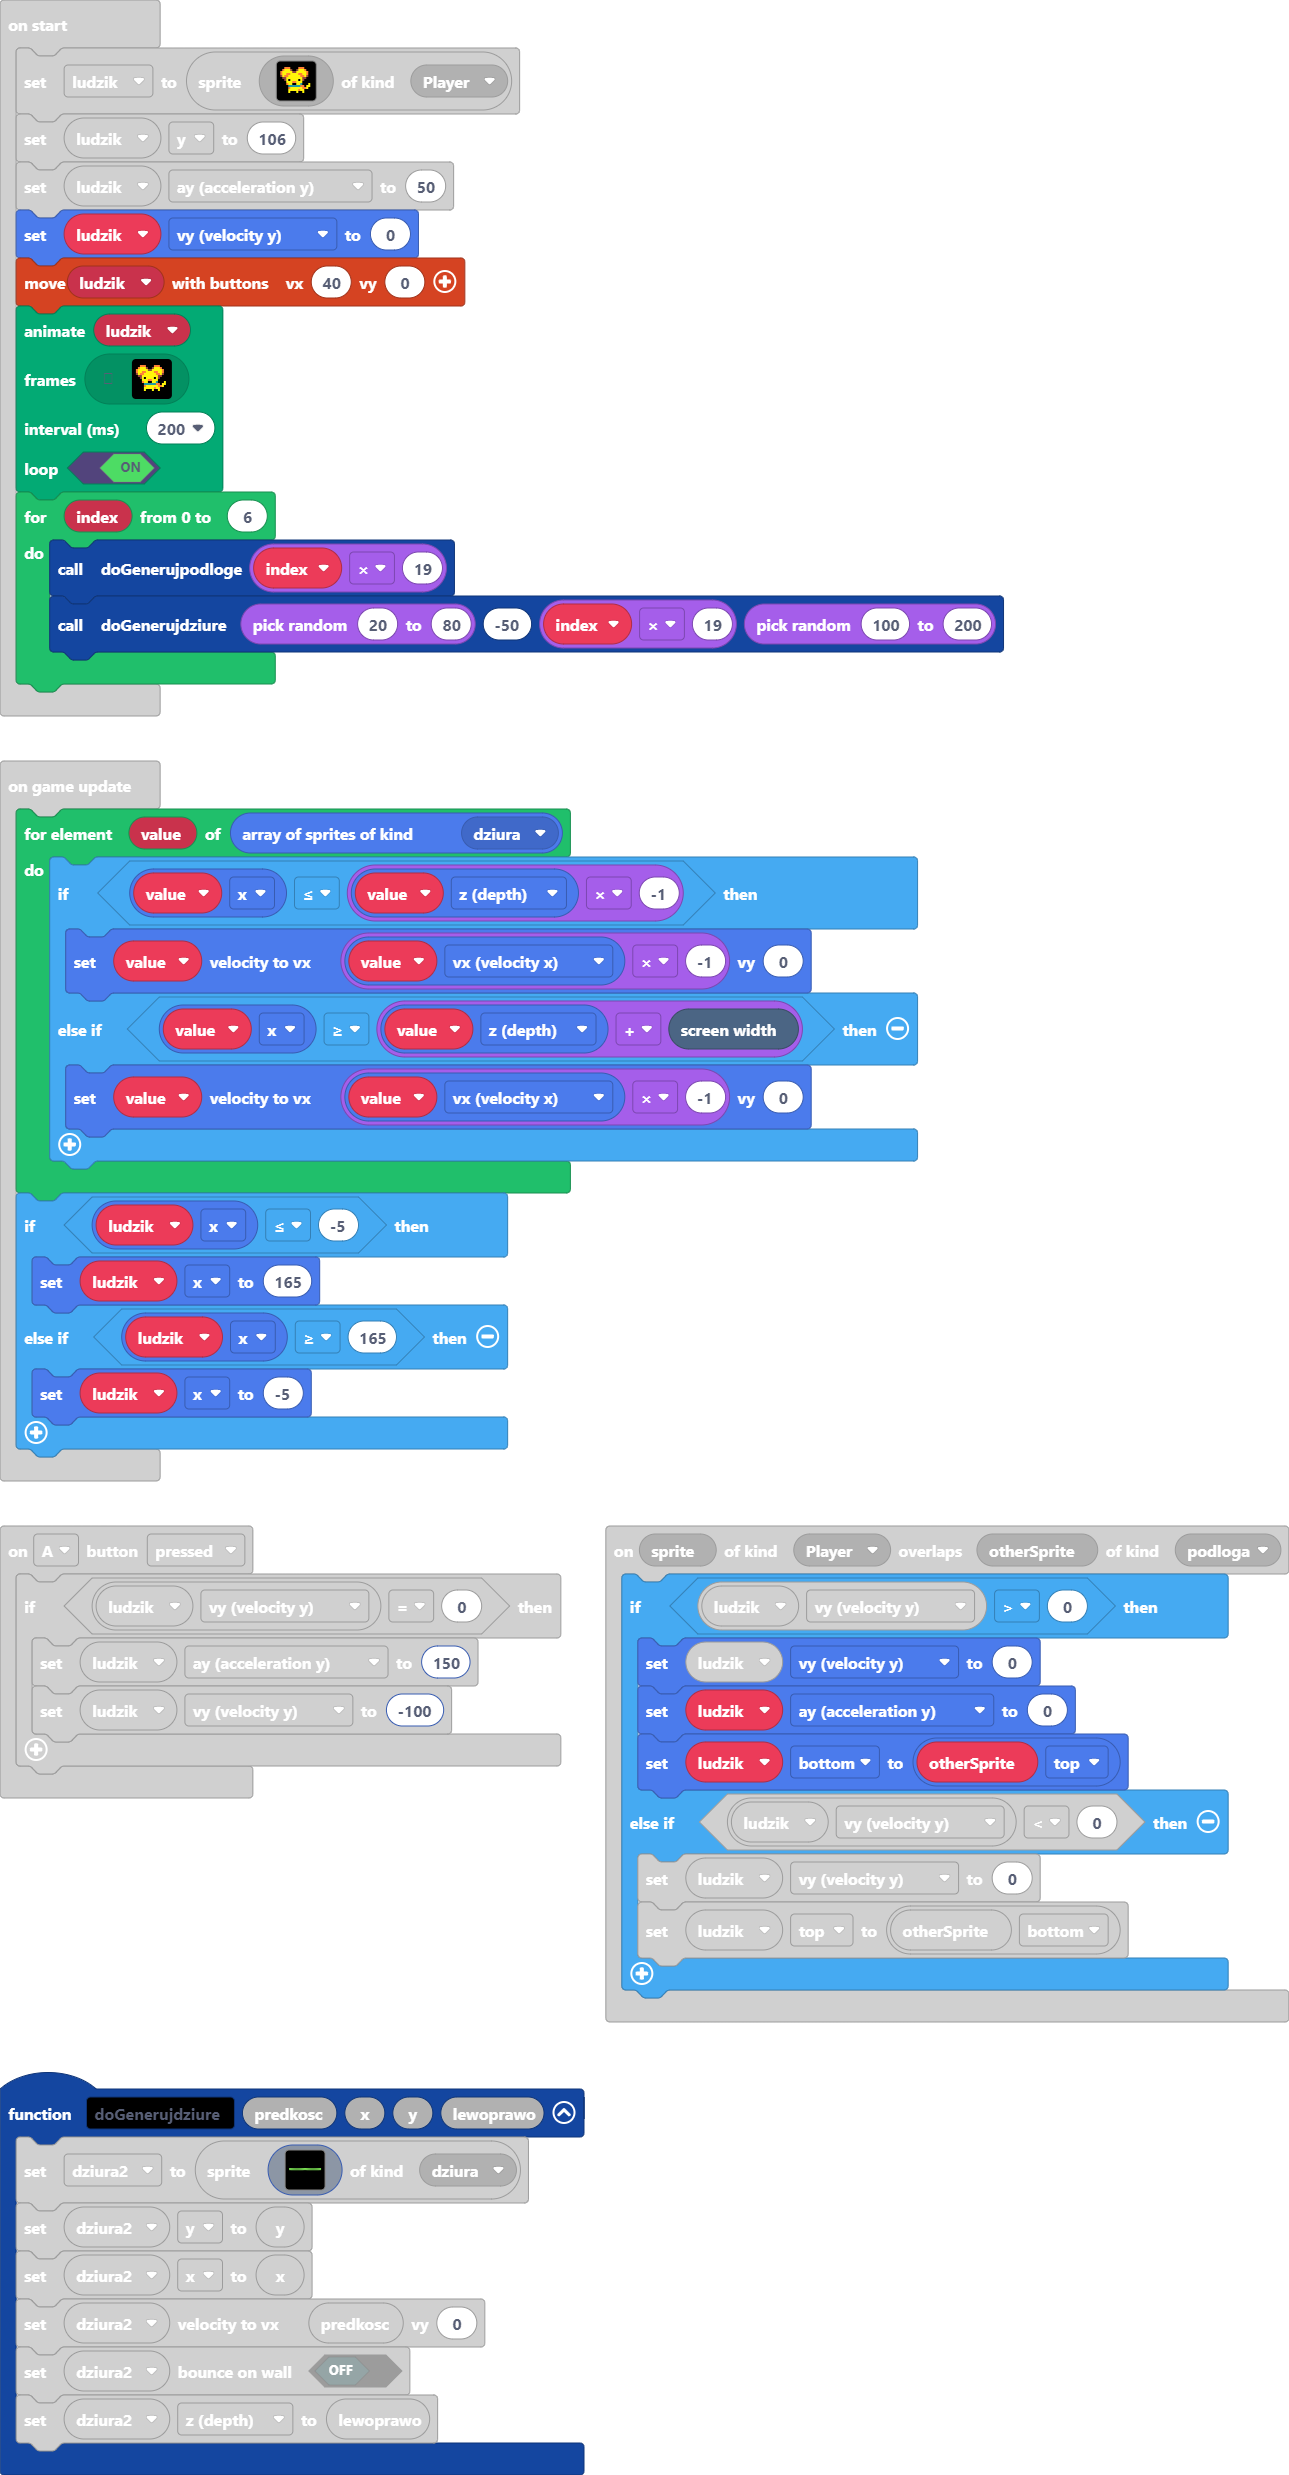
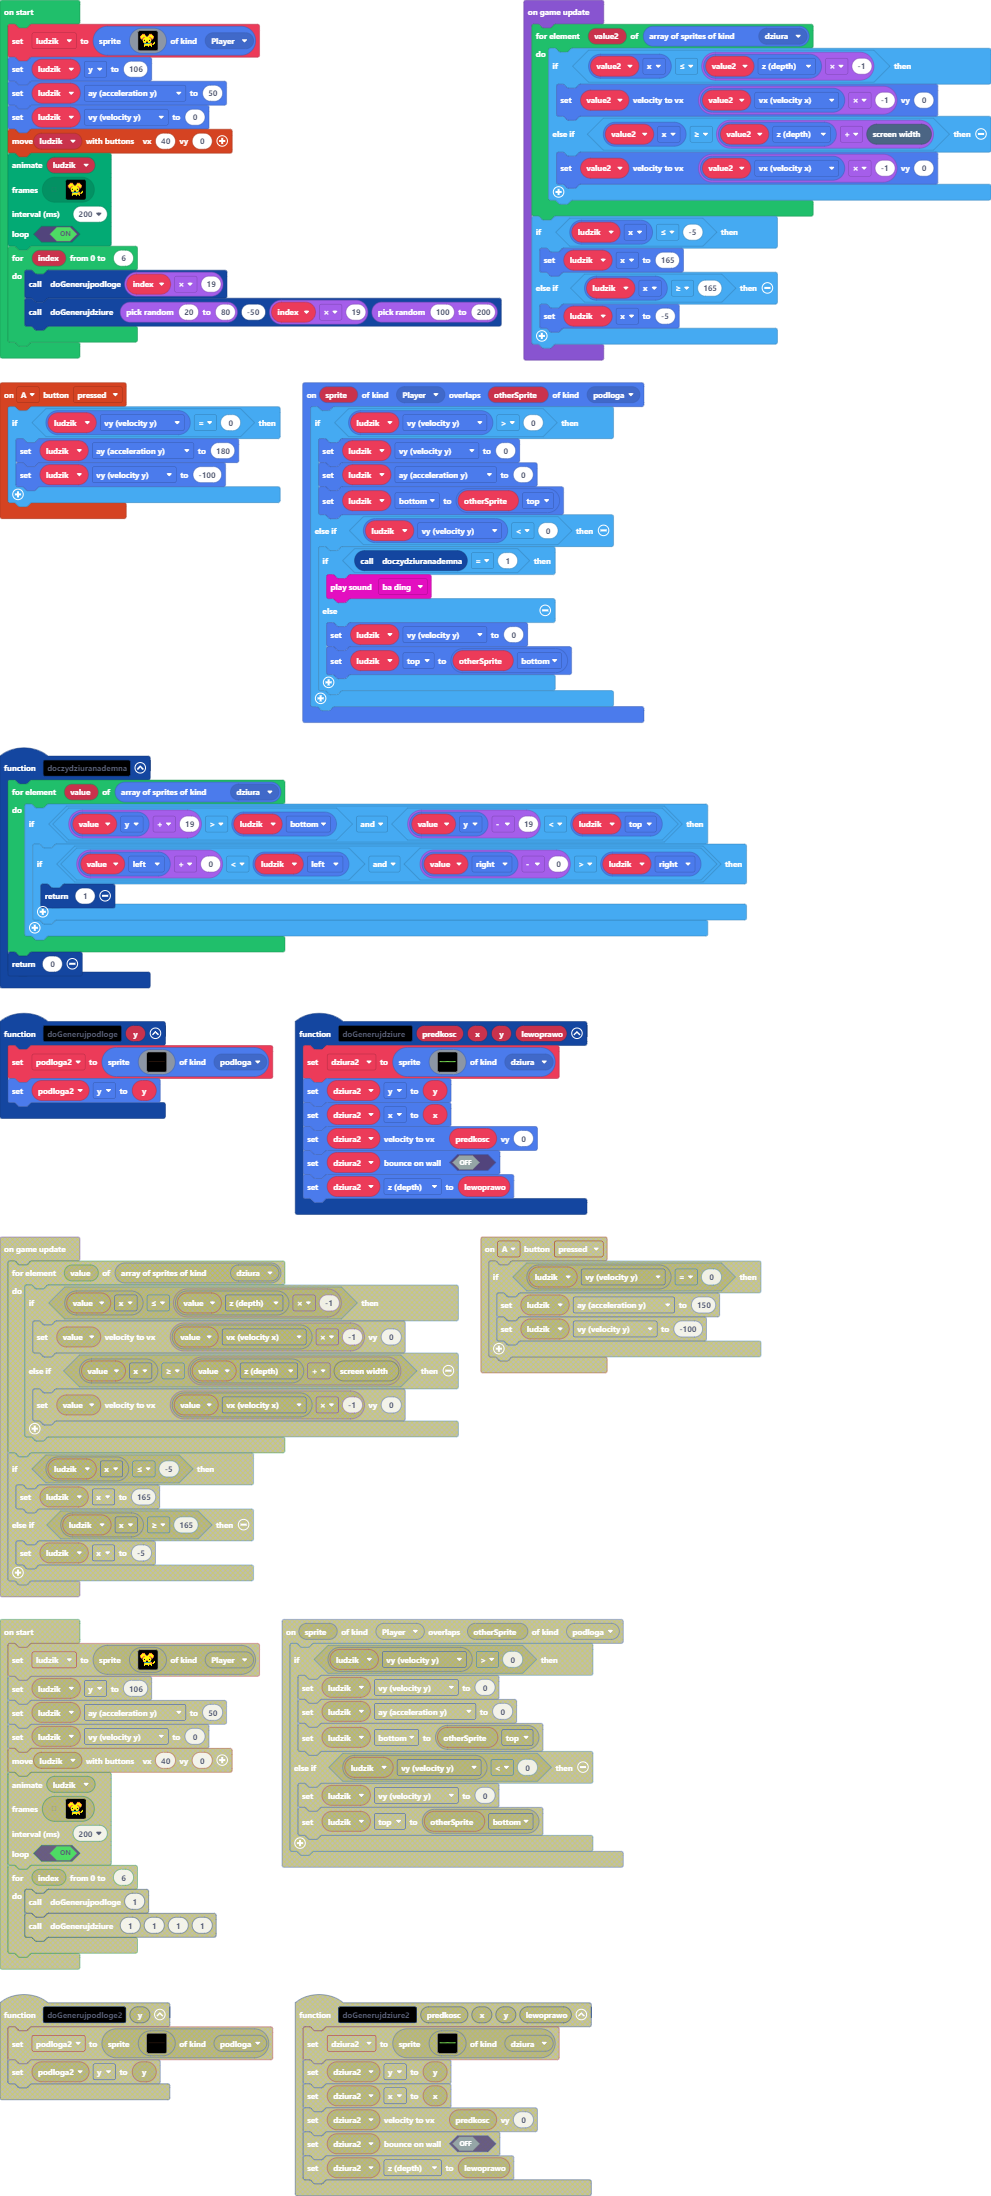
dorobione skakanie przez dziure, ale jeszcze nie dziala do konca poprawnie

diff --git a/main.ts b/main.ts
@@ -8,16 +8,30 @@ sprites.onOverlap(SpriteKind.Player, SpriteKind.podloga, function (sprite, other
         ludzik.ay = 0
         ludzik.bottom = otherSprite.top
     } else if (ludzik.vy < 0) {
-        ludzik.vy = 0
-        ludzik.top = otherSprite.bottom
+        if (doczydziuranademna() == 1) {
+            music.baDing.play()
+        } else {
+            ludzik.vy = 0
+            ludzik.top = otherSprite.bottom
+        }
     }
 })
 controller.A.onEvent(ControllerButtonEvent.Pressed, function () {
     if (ludzik.vy == 0) {
-        ludzik.ay = 150
+        ludzik.ay = 180
         ludzik.vy = -100
     }
 })
+function doczydziuranademna () {
+    for (let value of sprites.allOfKind(SpriteKind.dziura)) {
+        if (value.y + 19 > ludzik.bottom && value.y - 19 < ludzik.top) {
+            if (value.left + 0 < ludzik.left && value.right - 0 > ludzik.right) {
+                return 1
+            }
+        }
+    }
+    return 0
+}
 function doGenerujpodloge (y: number) {
     podloga2 = sprites.create(img`
         eeeeeeeeeeeeeeeeeeeeeeeeeeeeeeeeeeeeeeeeeeeeeeeeeeeeeeeeeeeeeeeeeeeeeeeeeeeeeeeeeeeeeeeeeeeeeeeeeeeeeeeeeeeeeeeeeeeeeeeeeeeeeeeeeeeeeeeeeeeeeeeeeeeeeeeeeeeeeeee
@@ -115,11 +129,11 @@ for (let index = 0; index <= 6; index++) {
     doGenerujdziure(randint(20, 80), -50, index * 19, randint(100, 200))
 }
 game.onUpdate(function () {
-    for (let value of sprites.allOfKind(SpriteKind.dziura)) {
-        if (value.x <= value.z * -1) {
-            value.setVelocity(value.vx * -1, 0)
-        } else if (value.x >= value.z + scene.screenWidth()) {
-            value.setVelocity(value.vx * -1, 0)
+    for (let value2 of sprites.allOfKind(SpriteKind.dziura)) {
+        if (value2.x <= value2.z * -1) {
+            value2.setVelocity(value2.vx * -1, 0)
+        } else if (value2.x >= value2.z + scene.screenWidth()) {
+            value2.setVelocity(value2.vx * -1, 0)
         }
     }
     if (ludzik.x <= -5) {
